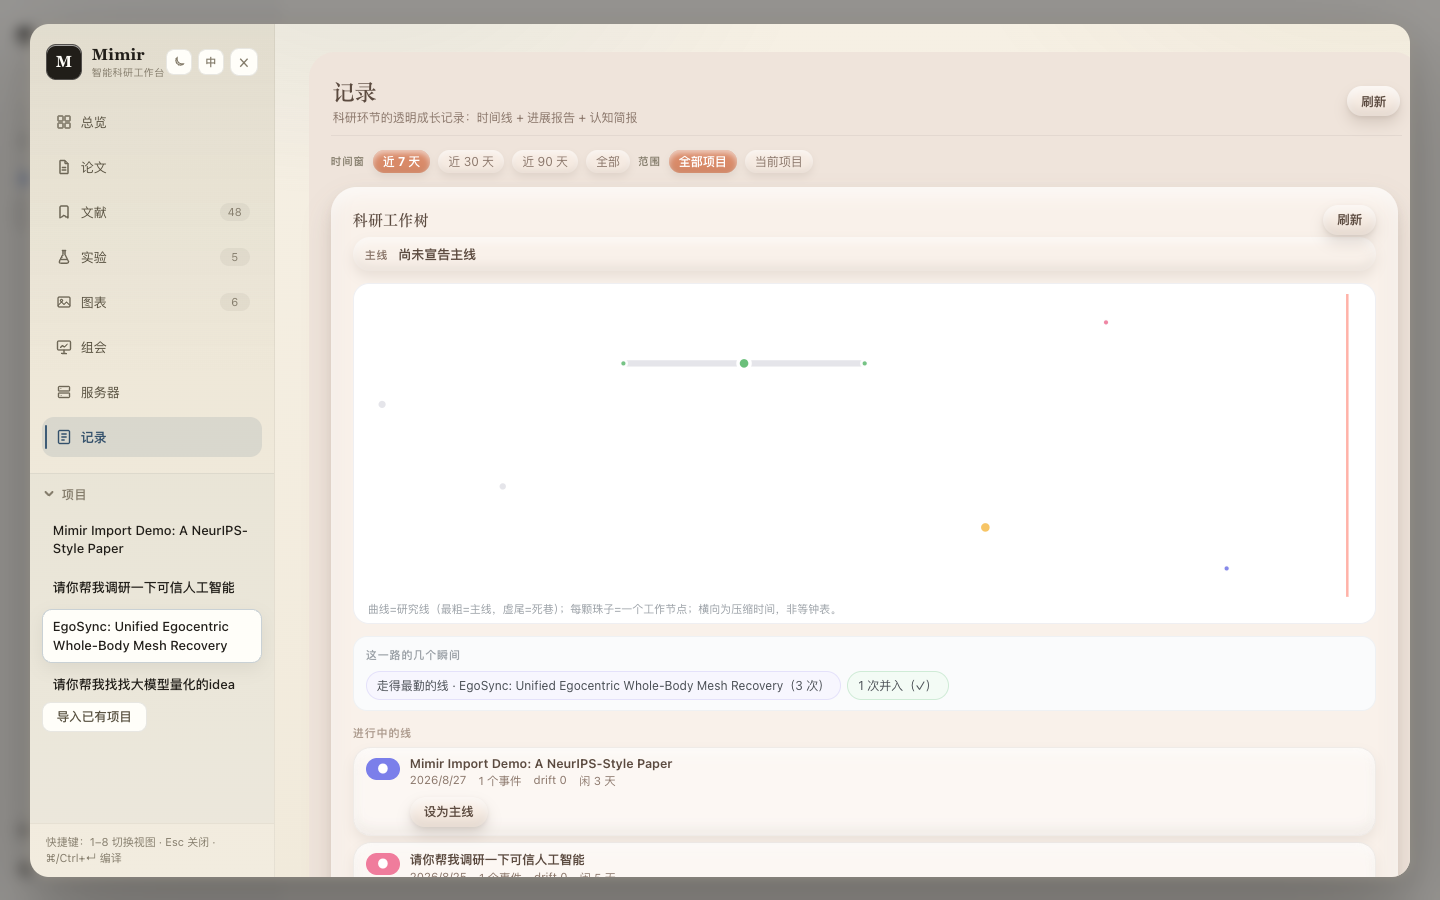
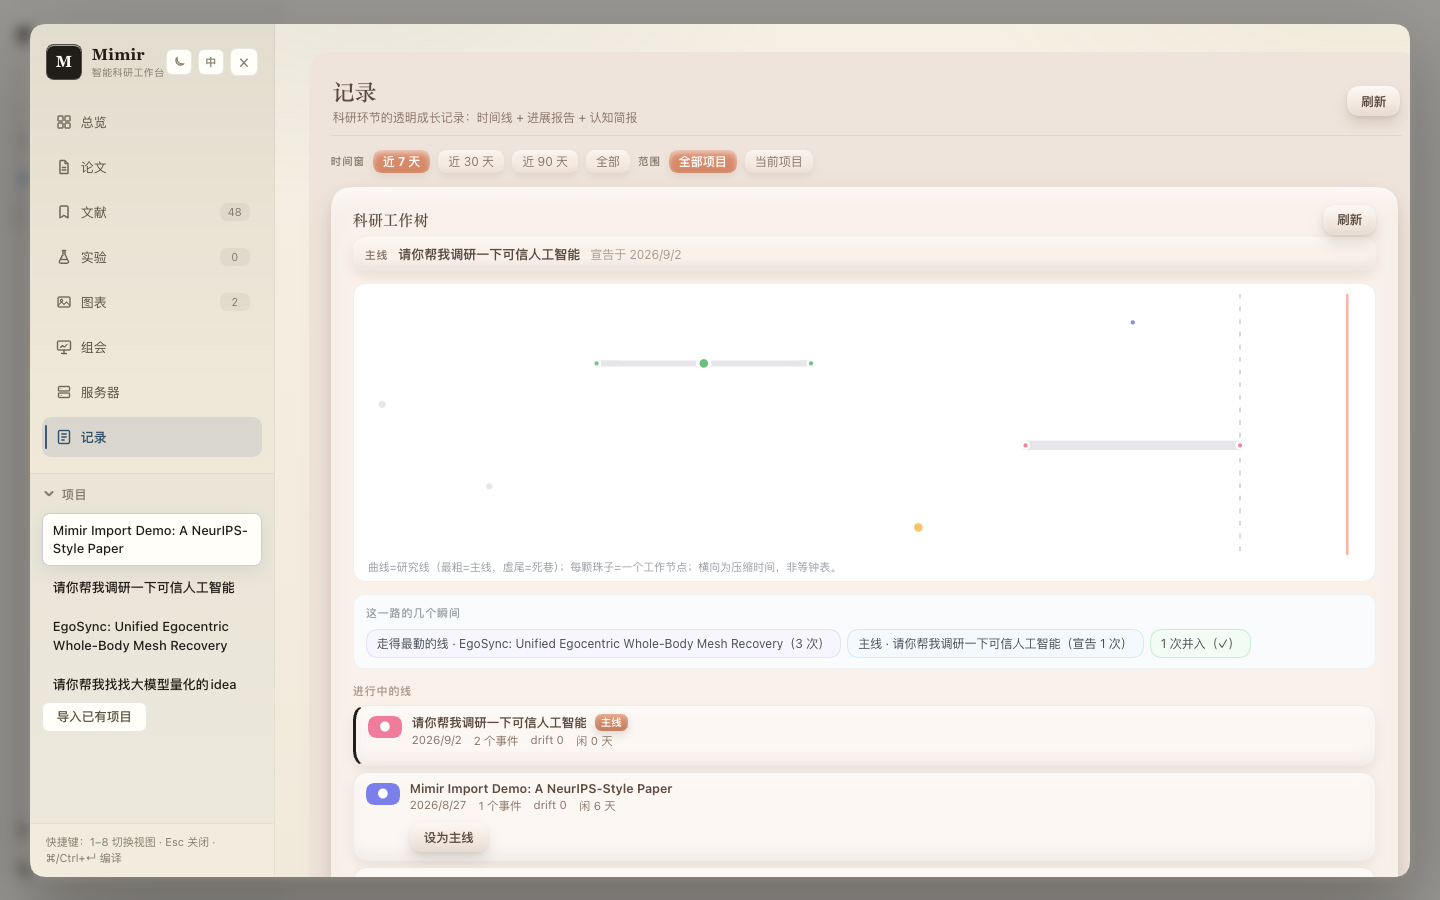
docs+website: 0.17.0 sync

diff --git a/website/index.html b/website/index.html
@@ -495,7 +495,7 @@ footer a { color: var(--muted); }
         <button class="term-copy">复制</button>
       </div>
     </div>
-    <p class="hero-stats rise" style="animation-delay:.46s"><b>8</b> 个视图 · <b>928</b> 项自动化测试 · MIT 开源</p>
+    <p class="hero-stats rise" style="animation-delay:.46s"><b>8</b> 个视图 · <b>951</b> 项自动化测试 · MIT 开源</p>
     <div class="hero-shot rise" style="animation-delay:.55s">
       <img src="assets/tab-overview.png" alt="Mimir 总览：项目管线、统计与最近动态" loading="lazy">
     </div>
@@ -639,7 +639,10 @@ footer a { color: var(--muted); }
       可选能力：论文编译装 <code>brew install tectonic</code> · Web 搜索跑 <code>bash scripts/setup-web-search.sh</code>（免 Docker 一键 SearXNG）· Zotero 在配置里填 API Key 即可
     </p>
     <p class="optional">
-      装到了旧版本？pnpm 会延迟加载刚发布的新版，用精确版本号重装：<code>dsh plugin --profile web remove dsh-mimir</code> 后 <code>dsh plugin --profile web add dsh-mimir@0.16.0</code>
+      装到了旧版本？pnpm 会延迟加载刚发布的新版，用精确版本号重装：<code>dsh plugin --profile web remove dsh-mimir</code> 后 <code>dsh plugin --profile web add dsh-mimir@0.17.0</code>
+    </p>
+    <p class="optional">
+      版本兼容：<b>0.17.0 需要 dsh ≥ 0.1.2-alpha.4</b>（上游有破坏性改动）；旧版 dsh 请钉住 <code>dsh-mimir@0.16.0</code>
     </p>
   </div>
 </section>

diff --git a/README.md b/README.md
@@ -48,6 +48,8 @@ dsh web                                          # then open http://127.0.0.1:30
 
 Got an old version (e.g. 0.11.x/0.12.x)? dsh's plugin store uses pnpm, which holds back freshly published releases by default. Pin the exact version instead: `dsh plugin --profile web remove dsh-mimir && dsh plugin --profile web add dsh-mimir@0.14.1`
 
+Version compatibility: **0.17.0 requires dsh ≥ 0.1.2-alpha.4** (upstream breaking changes). On an older dsh, pin the previous release: `dsh plugin --profile web add dsh-mimir@0.16.0`.
+
 Click **Mimir** in the sidebar footer. The wiki persists at `~/.dsh/storages/research_wiki.json`; artifacts land under `./.research`.
 
 Optional capabilities:
@@ -81,6 +83,7 @@ All keys are optional; set them in the profile's `cordis.patch.yml` (full commen
 
 ## Changelog
 
+- **0.17.0** — adapts to **dsh 0.1.2-alpha.4** (upstream removed `dsh-client-runtime`; injection now goes through `dsh-api-session-controller` + `dsh-client-ui-renderer`; breaking API alignment — fixes client type pollution and panel load failures on the new dsh). **Requires dsh ≥ 0.1.2-alpha.4; on older dsh stay on 0.16.0.** Also ships the moment timeline & eureka view by [@EriXPsy](https://github.com/EriXPsy) ([#127](https://github.com/1692775560/dsh-Mimir-Academic-research/pull/127)): five-source moment candidates (burst / return-after-dormancy / cross-line convergence / long-sitting / milestone), canonical-candidate-declined timeline, read-only remotes
 - **0.16.0** — Humanized ledger by [@EriXPsy](https://github.com/EriXPsy) ([#125](https://github.com/1692775560/dsh-Mimir-Academic-research/pull/125)): CBE cognitive map, brief view, idea-evolution worktree with ambient auto-capture, six-perspective digest capsules; `research-paper-deai` bilingual de-AI polish skill by [@hkwuks](https://github.com/hkwuks) ([#126](https://github.com/1692775560/dsh-Mimir-Academic-research/pull/126), synthesized from MIT-licensed aigc-humanizer-zh + blader/humanizer, LaTeX-safe with compile re-check)
 - **0.15.1** — cancelling `web_search` now terminates the sxng child process (no more zombie processes) by [@hxhy](https://github.com/huixiaheyu) ([#124](https://github.com/1692775560/dsh-Mimir-Academic-research/pull/124))
 - **0.15.0** — SearXNG web search by [@hkwuks](https://github.com/hkwuks) ([#122](https://github.com/1692775560/dsh-Mimir-Academic-research/pull/122)): sxng-cli config panel (SxngConfig) in the Library web tab, agent search routed through the sxng skill; local LaTeX project import by [@1692775560](https://github.com/1692775560); tolerant project args + PDF fullscreen portal by [@Nick](https://github.com/Nick) ([#120](https://github.com/1692775560/dsh-Mimir-Academic-research/pull/120))

diff --git a/README.zh.md b/README.zh.md
@@ -48,6 +48,8 @@ dsh web                                          # 然后打开 http://127.0.0.1
 
 装到了旧版本（比如 0.11.x/0.12.x）？dsh 的插件商店走 pnpm，默认会延迟加载刚发布的新版本。改用精确版本号：`dsh plugin --profile web remove dsh-mimir && dsh plugin --profile web add dsh-mimir@0.14.1`
 
+版本兼容：**0.17.0 需要 dsh ≥ 0.1.2-alpha.4**（上游有破坏性改动）。旧版 dsh 请钉住上一个版本：`dsh plugin --profile web add dsh-mimir@0.16.0`。
+
 点击侧栏底部的 **Mimir**。wiki 存在 `~/.dsh/storages/research_wiki.json`，工件落盘 `./.research`。
 
 可选能力：
@@ -81,6 +83,7 @@ dsh web                                          # 然后打开 http://127.0.0.1
 
 ## 更新日志
 
+- **0.17.0**——适配 **dsh 0.1.2-alpha.4**（上游删除 `dsh-client-runtime`，注入改走 `dsh-api-session-controller` + `dsh-client-ui-renderer`；对齐破坏性 API——修复新版 dsh 下 client 类型污染与面板加载失败）。**需要 dsh ≥ 0.1.2-alpha.4；旧版 dsh 请留在 0.16.0。** 同时带来瞬间时间线与 eureka 视图，[@EriXPsy](https://github.com/EriXPsy) 贡献（[#127](https://github.com/1692775560/dsh-Mimir-Academic-research/pull/127)）：五源瞬间候选（爆发 / 休眠后回归 / 跨线汇聚 / 长期搁置 / 里程碑）、canonical-候选-已谢绝时间线、只读 remote
 - **0.16.0**——人本化记录视图，[@EriXPsy](https://github.com/EriXPsy) 贡献（[#125](https://github.com/1692775560/dsh-Mimir-Academic-research/pull/125)）：CBE 认知图谱、brief 视图、想法演化 worktree（自动收录）、六视角摘要胶囊；`research-paper-deai` 中英双语去 AI 味技能，[@hkwuks](https://github.com/hkwuks) 贡献（[#126](https://github.com/1692775560/dsh-Mimir-Academic-research/pull/126)，融合 MIT 协议的 aigc-humanizer-zh 与 blader/humanizer，LaTeX 安全且改写后强制编译复核）
 - **0.15.1**——取消 `web_search` 时终止 sxng 子进程（不再泄漏僵尸进程），[@hxhy](https://github.com/huixiaheyu) 贡献（[#124](https://github.com/1692775560/dsh-Mimir-Academic-research/pull/124)）
 - **0.15.0**——SearXNG Web 搜索增强，[@hkwuks](https://github.com/hkwuks) 贡献（[#122](https://github.com/1692775560/dsh-Mimir-Academic-research/pull/122)）：sxng-cli 配置面板（SxngConfig）、Agent 搜索经 sxng skill 引导；本地 LaTeX 项目导入，[@1692775560](https://github.com/1692775560) 贡献；自然语言项目参数 + PDF 全屏弹窗，[@Nick](https://github.com/Nick) 贡献（[#120](https://github.com/1692775560/dsh-Mimir-Academic-research/pull/120)）
